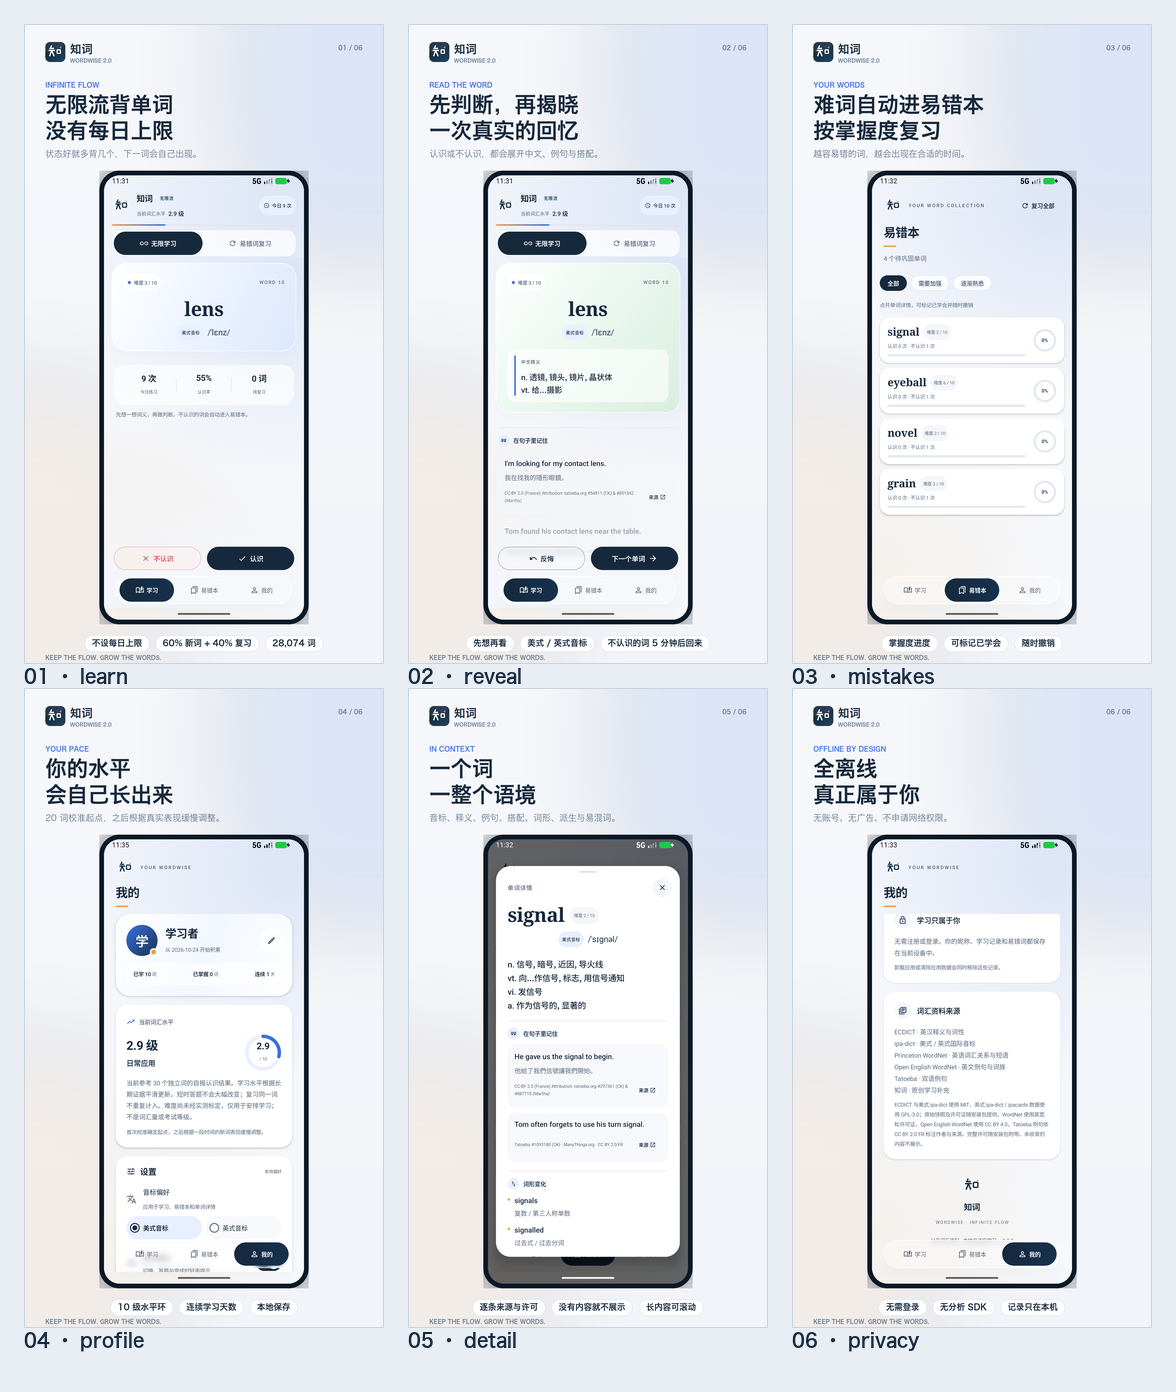
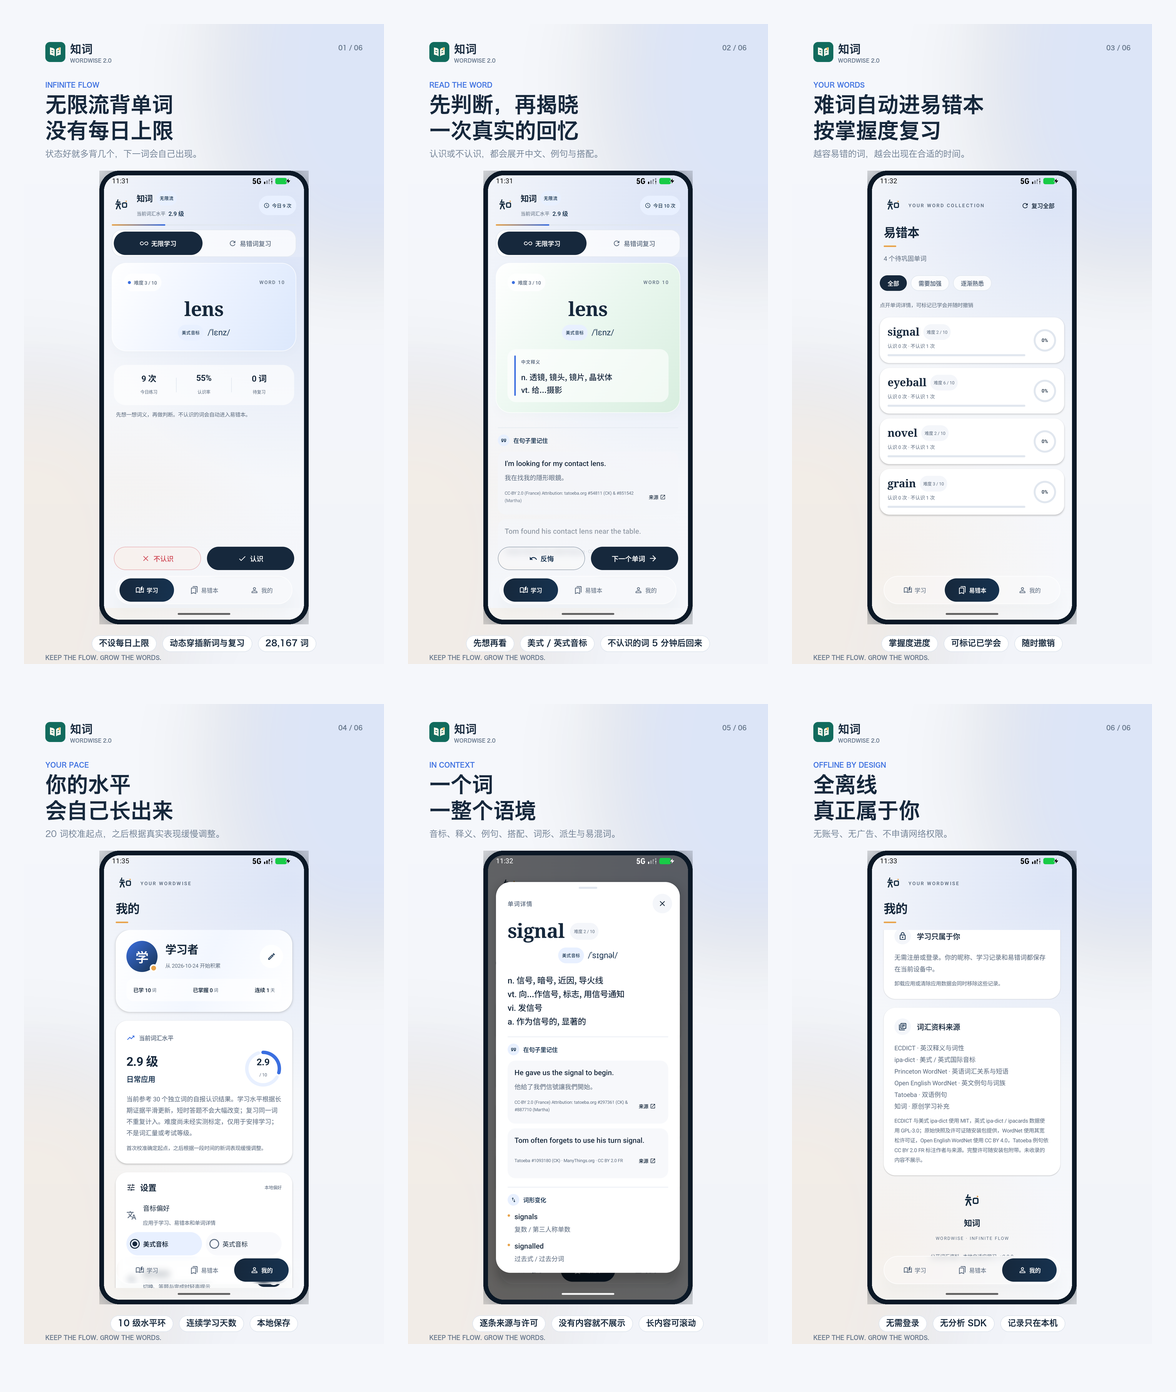
Regenerate store contact sheet from current brand artwork

diff --git a/tools/build_store_assets.py b/tools/build_store_assets.py
@@ -190,6 +190,14 @@ def main():
             continue
         board(raw, output, index, eyebrow, line1, line2, subtitle, chips)
         print("wrote", output)
+    # Rebuild the contact sheet from the same six marketing images.
+    sheet = Image.new("RGB", (1176, 1392), PAPER)
+    for i, entry in enumerate(boards):
+        source = OUT / entry[0]
+        if source.exists():
+            thumb = Image.open(source).convert("RGB").resize((360, 640), Image.Resampling.LANCZOS)
+            sheet.paste(thumb, (24 + (i % 3) * 384, 24 + (i // 3) * 680))
+    sheet.save(STORE / "screenshots/contact-sheet.png")
     print("store artwork ready")
 
 
